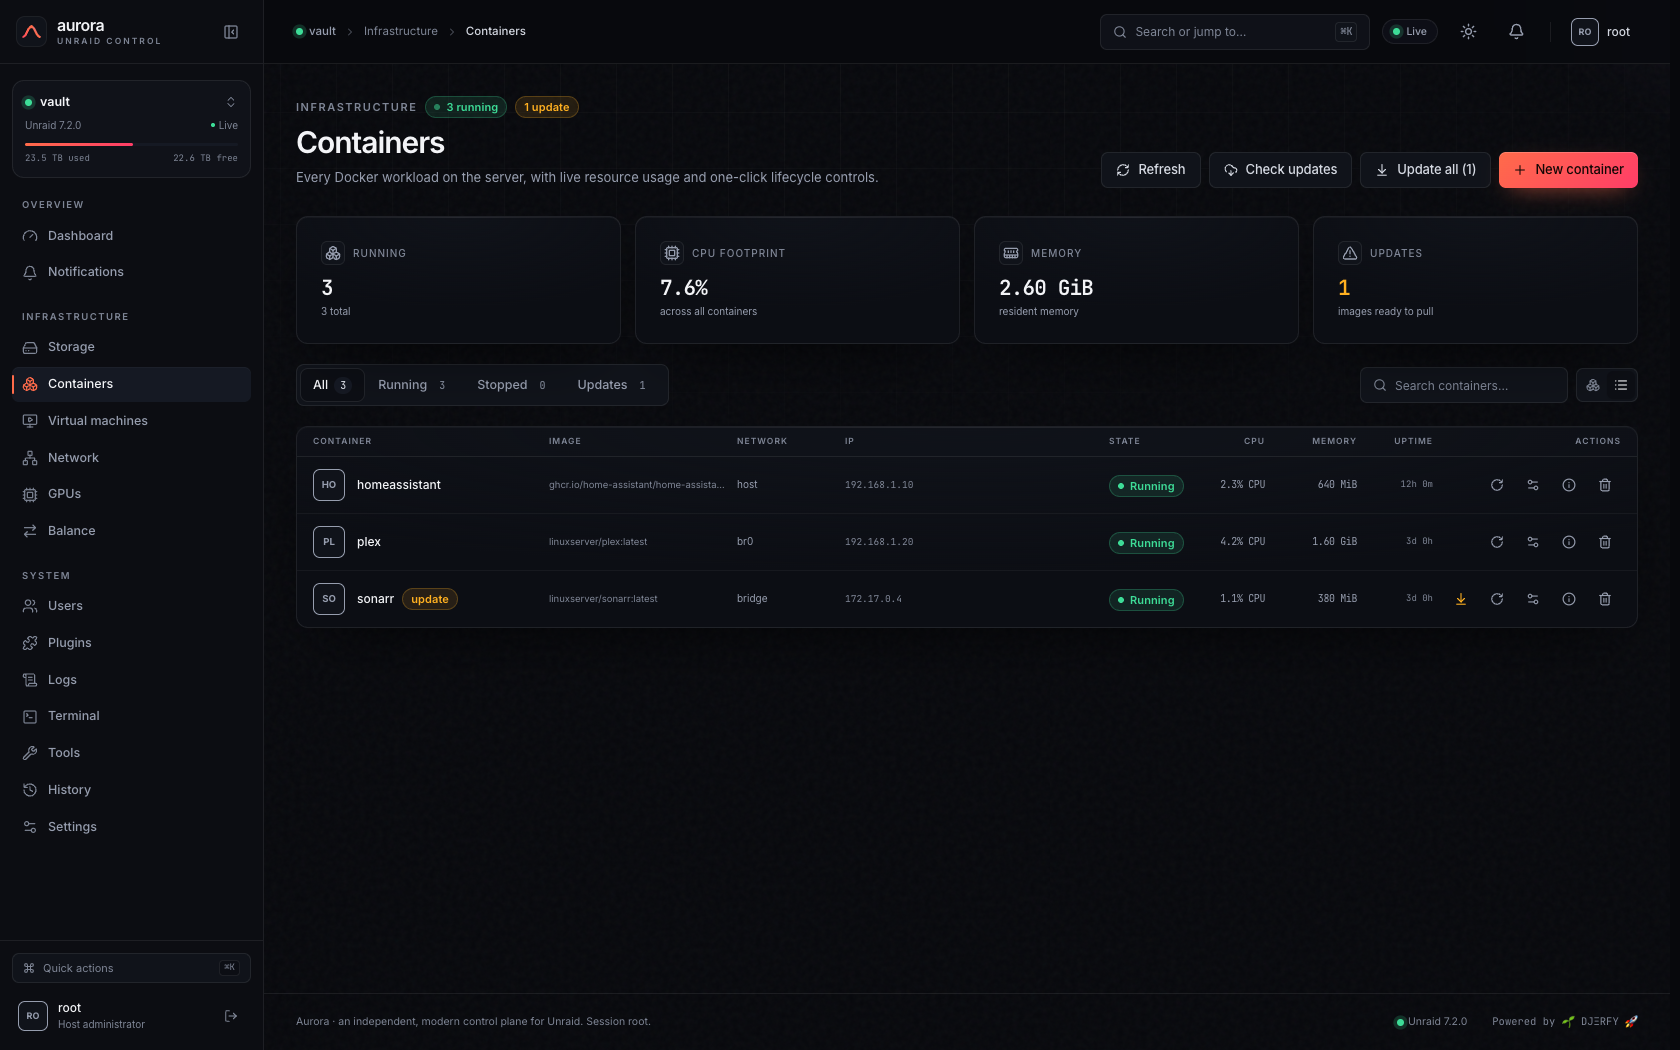
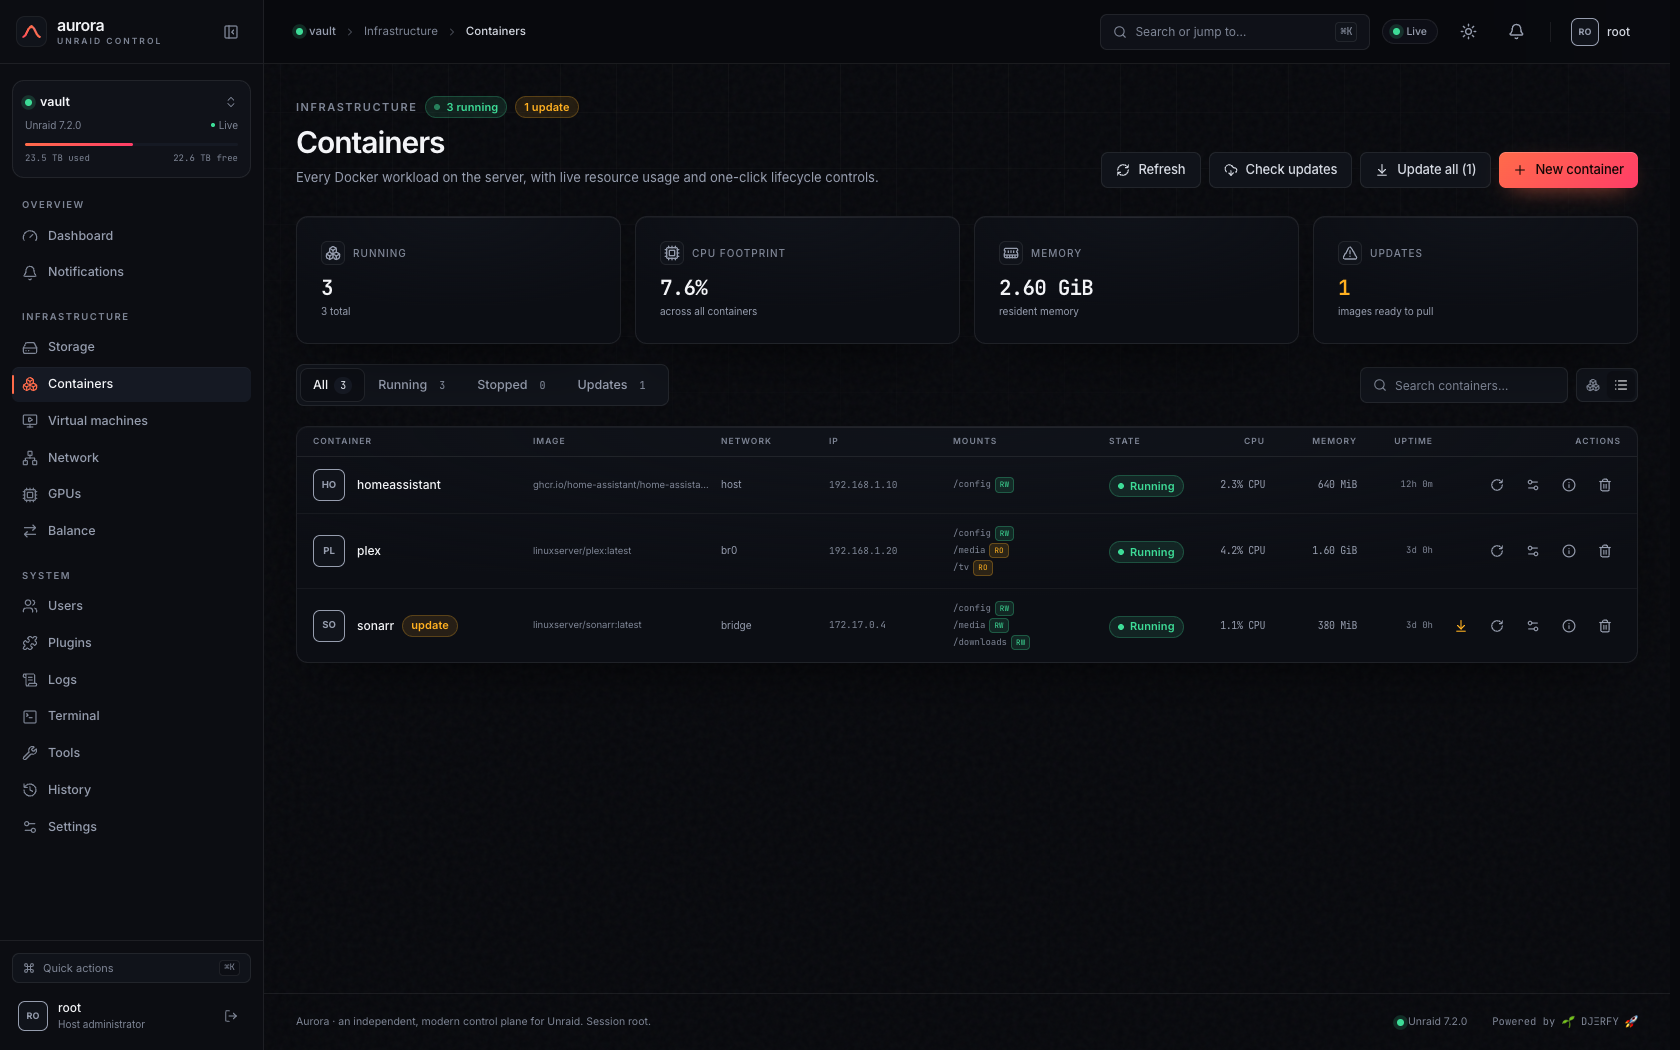
feat: show container bind mounts in the list

diff --git a/frontend/src/pages/Docker.tsx b/frontend/src/pages/Docker.tsx
@@ -368,12 +368,15 @@ export function DockerPage() {
       ) : (
         <Card>
           <div className="hidden items-center gap-3 border-b border-line bg-[var(--surface-2)]/35 px-4 py-2 md:flex">
-            <span className="min-w-0 flex-1 text-[8.5px] font-semibold uppercase tracking-[0.12em] text-subtle lg:w-56 lg:flex-none">
+            <span className="min-w-0 flex-1 text-[8.5px] font-semibold uppercase tracking-[0.12em] text-subtle lg:w-52 lg:flex-none">
               {t("Container")}
             </span>
             <span className="hidden w-44 shrink-0 text-[8.5px] font-semibold uppercase tracking-[0.12em] text-subtle md:block">{t("Image")}</span>
             <span className="hidden w-24 shrink-0 text-[8.5px] font-semibold uppercase tracking-[0.12em] text-subtle lg:block">{t("Network")}</span>
             <span className="hidden w-28 shrink-0 text-[8.5px] font-semibold uppercase tracking-[0.12em] text-subtle lg:block">IP</span>
+            <span className="hidden w-[124px] shrink-0 text-[8.5px] font-semibold uppercase tracking-[0.12em] text-subtle min-[1600px]:block min-[1800px]:w-64">
+              {t("Mounts")}
+            </span>
             <span className="hidden flex-1 lg:block" aria-hidden="true" />
             <span className="w-20 shrink-0 text-[8.5px] font-semibold uppercase tracking-[0.12em] text-subtle">{t("State")}</span>
             <span className="hidden w-16 shrink-0 text-right text-[8.5px] font-semibold uppercase tracking-[0.12em] text-subtle sm:block">CPU</span>
@@ -672,9 +675,10 @@ function ContainerRow({
   const action = useAction();
   const { t } = useI18n();
   const running = container.state === "running";
+  const mounts = container.mounts ?? [];
   return (
     <div className="flex items-center gap-3 px-4 py-3 transition hover:bg-[var(--surface-2)]/50">
-      <button type="button" onClick={onOpen} className="flex min-w-0 flex-1 items-center gap-3 text-left lg:w-56 lg:flex-none">
+      <button type="button" onClick={onOpen} className="flex min-w-0 flex-1 items-center gap-3 text-left lg:w-52 lg:flex-none">
         <EntityIcon
           src={containerIconURL(container.id)}
           name={container.name}
@@ -694,6 +698,34 @@ function ContainerRow({
       </span>
       <span className="hidden w-28 shrink-0 truncate font-mono text-[9.5px] text-subtle lg:block" title={container.ip || "—"}>
         {container.ip || "—"}
+      </span>
+      <span className="hidden w-[124px] shrink-0 flex-col gap-0.5 min-[1600px]:flex min-[1800px]:w-64">
+        {mounts.length === 0 ? (
+          <span className="text-[9px] text-subtle">—</span>
+        ) : (
+          mounts.map((mount) => (
+            <span
+              key={`${mount.source}-${mount.destination}`}
+              className="flex min-w-0 items-center gap-1"
+              title={`${mount.source} → ${mount.destination} (${mount.readOnly ? "ro" : "rw"})`}
+            >
+              <span className="truncate font-mono text-[9px] text-subtle">
+                <span className="hidden min-[1800px]:inline">{mount.source} → </span>
+                {mount.destination}
+              </span>
+              <span
+                className={cn(
+                  "shrink-0 rounded border px-1 py-px font-mono text-[7.5px] uppercase tracking-wide",
+                  mount.readOnly
+                    ? "border-[color-mix(in_srgb,var(--warning)_28%,transparent)] bg-[var(--warning-soft)] text-[var(--warning)]"
+                    : "border-[color-mix(in_srgb,var(--success)_28%,transparent)] bg-[var(--success-soft)] text-[var(--success)]",
+                )}
+              >
+                {mount.readOnly ? "ro" : "rw"}
+              </span>
+            </span>
+          ))
+        )}
       </span>
       <span className="hidden flex-1 lg:block" aria-hidden="true" />
       <span className="w-20 shrink-0">

diff --git a/frontend/src/lib/types.ts b/frontend/src/lib/types.ts
@@ -216,6 +216,13 @@ export type ContainerVolume = {
   readOnly: boolean;
 };
 
+export type ContainerMount = {
+  type: string;
+  source: string;
+  destination: string;
+  readOnly: boolean;
+};
+
 export type ContainerTemplate = {
   id: string;
   name: string;
@@ -285,6 +292,7 @@ export type Container = {
   network: string;
   ip: string;
   ports: Port[];
+  mounts: ContainerMount[];
   cpu: number;
   memory: number;
   memoryLimit: number;

diff --git a/frontend/src/i18n/locales/fr/docker.ts b/frontend/src/i18n/locales/fr/docker.ts
@@ -1,5 +1,6 @@
 const docker: Record<string, string> = {
   "Up {time}": "Depuis {time}",
+  "Mounts": "Montages",
   "Infrastructure": "Infrastructure",
   "Containers": "Conteneurs",
   "Every Docker workload on the server, with live resource usage and one-click lifecycle controls.":

diff --git a/backend/internal/model/model.go b/backend/internal/model/model.go
@@ -233,31 +233,39 @@ type Port struct {
 }
 
 type Container struct {
-	ID              string    `json:"id"`
-	Name            string    `json:"name"`
-	Image           string    `json:"image"`
-	Repository      string    `json:"repository"`
-	Tag             string    `json:"tag"`
-	Version         string    `json:"version"`
-	State           string    `json:"state"`
-	Status          string    `json:"status"`
-	Uptime          int64     `json:"uptime"`
-	Autostart       bool      `json:"autostart"`
-	Network         string    `json:"network"`
-	IP              string    `json:"ip"`
-	Ports           []Port    `json:"ports"`
-	CPU             float64   `json:"cpu"`
-	Memory          uint64    `json:"memory"`
-	MemoryLimit     uint64    `json:"memoryLimit"`
-	NetworkRx       uint64    `json:"networkRx"`
-	NetworkTx       uint64    `json:"networkTx"`
-	Color           string    `json:"color"`
-	Category        string    `json:"category"`
-	UpdateAvailable bool      `json:"updateAvailable"`
-	Created         time.Time `json:"created"`
-	Icon            string    `json:"icon"`
-	WebUI           string    `json:"webUi"`
-	RestartPolicy   string    `json:"restartPolicy"`
+	ID              string           `json:"id"`
+	Name            string           `json:"name"`
+	Image           string           `json:"image"`
+	Repository      string           `json:"repository"`
+	Tag             string           `json:"tag"`
+	Version         string           `json:"version"`
+	State           string           `json:"state"`
+	Status          string           `json:"status"`
+	Uptime          int64            `json:"uptime"`
+	Autostart       bool             `json:"autostart"`
+	Network         string           `json:"network"`
+	IP              string           `json:"ip"`
+	Ports           []Port           `json:"ports"`
+	Mounts          []ContainerMount `json:"mounts"`
+	CPU             float64          `json:"cpu"`
+	Memory          uint64           `json:"memory"`
+	MemoryLimit     uint64           `json:"memoryLimit"`
+	NetworkRx       uint64           `json:"networkRx"`
+	NetworkTx       uint64           `json:"networkTx"`
+	Color           string           `json:"color"`
+	Category        string           `json:"category"`
+	UpdateAvailable bool             `json:"updateAvailable"`
+	Created         time.Time        `json:"created"`
+	Icon            string           `json:"icon"`
+	WebUI           string           `json:"webUi"`
+	RestartPolicy   string           `json:"restartPolicy"`
+}
+
+type ContainerMount struct {
+	Type        string `json:"type"`
+	Source      string `json:"source"`
+	Destination string `json:"destination"`
+	ReadOnly    bool   `json:"readOnly"`
 }
 
 type ContainerEnv struct {

diff --git a/backend/internal/provider/container_mounts.go b/backend/internal/provider/container_mounts.go
@@ -1,0 +1,38 @@
+package provider
+
+import (
+	"sort"
+
+	"aurora/internal/model"
+)
+
+type dockerMount struct {
+	Type        string `json:"Type"`
+	Source      string `json:"Source"`
+	Destination string `json:"Destination"`
+	RW          bool   `json:"RW"`
+}
+
+// containerMounts keeps bind mounts only: named volumes and tmpfs mounts do
+// not expose a host path, so they are noise in the container list.
+func containerMounts(mounts []dockerMount) []model.ContainerMount {
+	out := make([]model.ContainerMount, 0, len(mounts))
+	for _, mount := range mounts {
+		if mount.Type != "bind" || mount.Source == "" || mount.Destination == "" {
+			continue
+		}
+		out = append(out, model.ContainerMount{
+			Type:        mount.Type,
+			Source:      mount.Source,
+			Destination: mount.Destination,
+			ReadOnly:    !mount.RW,
+		})
+	}
+	sort.Slice(out, func(i, j int) bool {
+		if out[i].Destination == out[j].Destination {
+			return out[i].Source < out[j].Source
+		}
+		return out[i].Destination < out[j].Destination
+	})
+	return out
+}

diff --git a/backend/internal/provider/live.go b/backend/internal/provider/live.go
@@ -495,6 +495,7 @@ func (l *Live) listContainers(ctx context.Context) ([]model.Container, error) {
 		Status          string            `json:"Status"`
 		Created         int64             `json:"Created"`
 		Labels          map[string]string `json:"Labels"`
+		Mounts          []dockerMount     `json:"Mounts"`
 		NetworkSettings struct {
 			Networks map[string]containerNetwork `json:"Networks"`
 		} `json:"NetworkSettings"`
@@ -533,7 +534,7 @@ func (l *Live) listContainers(ctx context.Context) ([]model.Container, error) {
 		network, ip := pickContainerNetwork(c.NetworkSettings.Networks)
 		out = append(out, model.Container{
 			ID: c.ID, Name: name, Image: c.Image, Repository: repo, Tag: tag,
-			Network: network, IP: ip,
+			Network: network, IP: ip, Mounts: containerMounts(c.Mounts),
 			State: c.State, Status: c.Status, Autostart: autostart[name],
 			Uptime: dockerStatusUptime(c.Status),
 			Ports:  ports, Color: color, Created: time.Unix(c.Created, 0),

diff --git a/backend/internal/provider/container_mounts_test.go b/backend/internal/provider/container_mounts_test.go
@@ -1,0 +1,21 @@
+package provider
+
+import "testing"
+
+func TestContainerMounts(t *testing.T) {
+	got := containerMounts([]dockerMount{
+		{Type: "bind", Source: "/mnt/user/media", Destination: "/media", RW: false},
+		{Type: "volume", Source: "plex-config", Destination: "/config", RW: true},
+		{Type: "bind", Source: "/mnt/user/appdata/plex", Destination: "/config", RW: true},
+		{Type: "bind", Source: "", Destination: "/broken", RW: true},
+	})
+	if len(got) != 2 {
+		t.Fatalf("got %d mounts, want 2: %+v", len(got), got)
+	}
+	if got[0].Destination != "/config" || got[0].Source != "/mnt/user/appdata/plex" || got[0].ReadOnly {
+		t.Fatalf("unexpected first mount: %+v", got[0])
+	}
+	if got[1].Destination != "/media" || got[1].Source != "/mnt/user/media" || !got[1].ReadOnly {
+		t.Fatalf("unexpected second mount: %+v", got[1])
+	}
+}

diff --git a/docs/USER_GUIDE.md b/docs/USER_GUIDE.md
@@ -223,7 +223,9 @@ Use this page to empty a disk before replacing it, or to move selected folders/f
 ### Views and columns
 
 - Grid or list view; the choice persists across refreshes.
-- List columns: name, image, network, IP, state, CPU, memory, uptime and actions.
+- List columns: name, image, network, IP, mounts, state, CPU, memory, uptime and actions.
+- The **Mounts** column lists every bind mount with its container path and `ro`/`rw` access;
+  hover a row to see the full host → container mapping.
 - Filters: **All**, **Running**, **Stopped**, **Updates**.
 - Search covers name, image, network, IP and category.
 - Cards show a coloured halo, live CPU/RAM, ports, network/IP and uptime.
